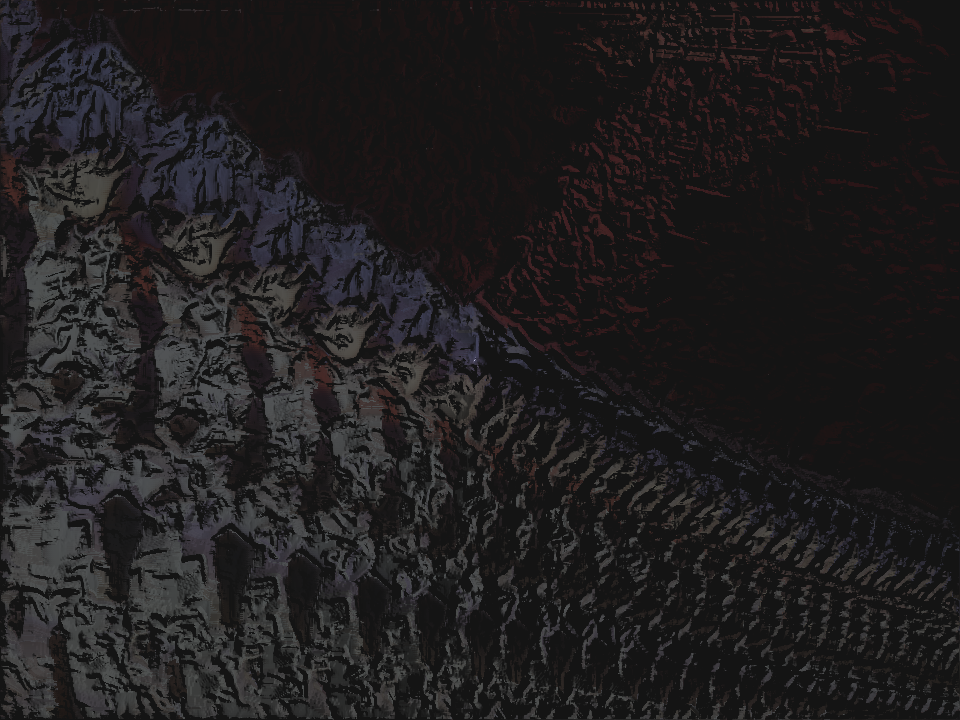
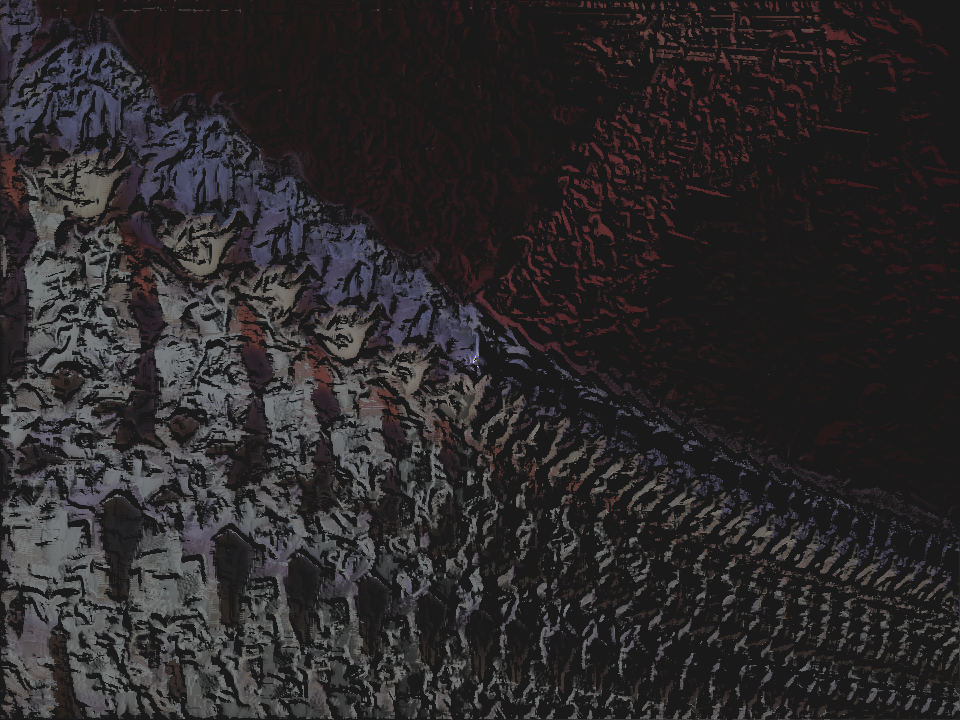
Improving lighting

diff --git a/src/shader.cpp b/src/shader.cpp
@@ -1,17 +1,19 @@
 #include "shader.hpp"
 
 Eigen::Vector3f BlinnPhongShader::shade(Eigen::Vector3f colour, Eigen::Vector3f pos, Eigen::Vector3f light_pos, Eigen::Vector3f view_pos, Eigen::Vector3f normal) {
-    Eigen::Vector3f ka = Eigen::Vector3f(0.2f, 0.2f, 0.2f);
-    Eigen::Vector3f kd = colour / 255.0f;
-    Eigen::Vector3f ks = Eigen::Vector3f(2.5f, 2.5f, 2.5f);
+    float ka = 0.1f;
+    float kd = 0.6f;
+    float ks = 0.8f;
 
-    Eigen::Vector3f amb_intensity = Eigen::Vector3f(100.0f, 100.0f, 100.0f);
-    Eigen::Vector3f intensity = Eigen::Vector3f(100.0f, 100.0f, 100.0f);
+    Eigen::Vector3f amb_intensity = Eigen::Vector3f(1.0f, 1.0f, 1.0f);
+    Eigen::Vector3f intensity = Eigen::Vector3f(1.0f, 1.0f, 1.0f);
+
+    colour /= 255.0f;
 
     Eigen::Vector3f output_colour = Eigen::Vector3f::Zero();
 
     // Apply ambient lighting
-    output_colour += ka.cwiseProduct(amb_intensity);
+    output_colour += ka * amb_intensity;
 
     Eigen::Vector3f v, l, h;
 
@@ -25,13 +27,16 @@ Eigen::Vector3f BlinnPhongShader::shade(Eigen::Vector3f colour, Eigen::Vector3f 
     h = (v + l).normalized();
 
     // Diffuse lighting. Fall-off not considered
-    float N_dot_l = std::max(0.0f, normal.dot(h));
-    output_colour += kd.cwiseProduct(intensity) * N_dot_l;
+    float N_dot_l = std::max(0.0f, normal.dot(l));
+    output_colour += kd * colour.cwiseProduct(intensity) * N_dot_l;
 
     // Specular lighting. Fall-off not considered
     float N_dot_h = std::max(0.0f, normal.dot(h));
-    float p = 150.0f;
-    output_colour += ks.cwiseProduct(intensity) * std::pow(N_dot_h, p);
+    output_colour += ks * intensity * std::pow(N_dot_h, this->p);
 
-    return output_colour;
+    // Clamp the colour between [0, 1]
+    output_colour.cwiseMin(1.0f).cwiseMax(0.0f);
+
+    // Scale the colour from [0, 1] to [0, 255]
+    return output_colour * 255.0f;
 }

diff --git a/src/paint.cpp b/src/paint.cpp
@@ -164,7 +164,7 @@ void Paint::paint_layer(RGBImage *ref_image, RGBImage *canvas, GrayImage *height
         #ifdef ANIMATE
             cv::Mat *cv_canvas = canvas->to_cv_mat();
             cv::imshow("canvas", *cv_canvas);
-            cv::waitKey(10);
+            cv::waitKey(1);
             delete cv_canvas;
         #endif
     }    

diff --git a/include/shader.hpp b/include/shader.hpp
@@ -12,6 +12,10 @@ class Shader {
 };
 
 class BlinnPhongShader : public Shader {
+    private:
+        // Specular exponent
+        float p = 25.0f;
+        
     public:
         BlinnPhongShader() = default;
 
